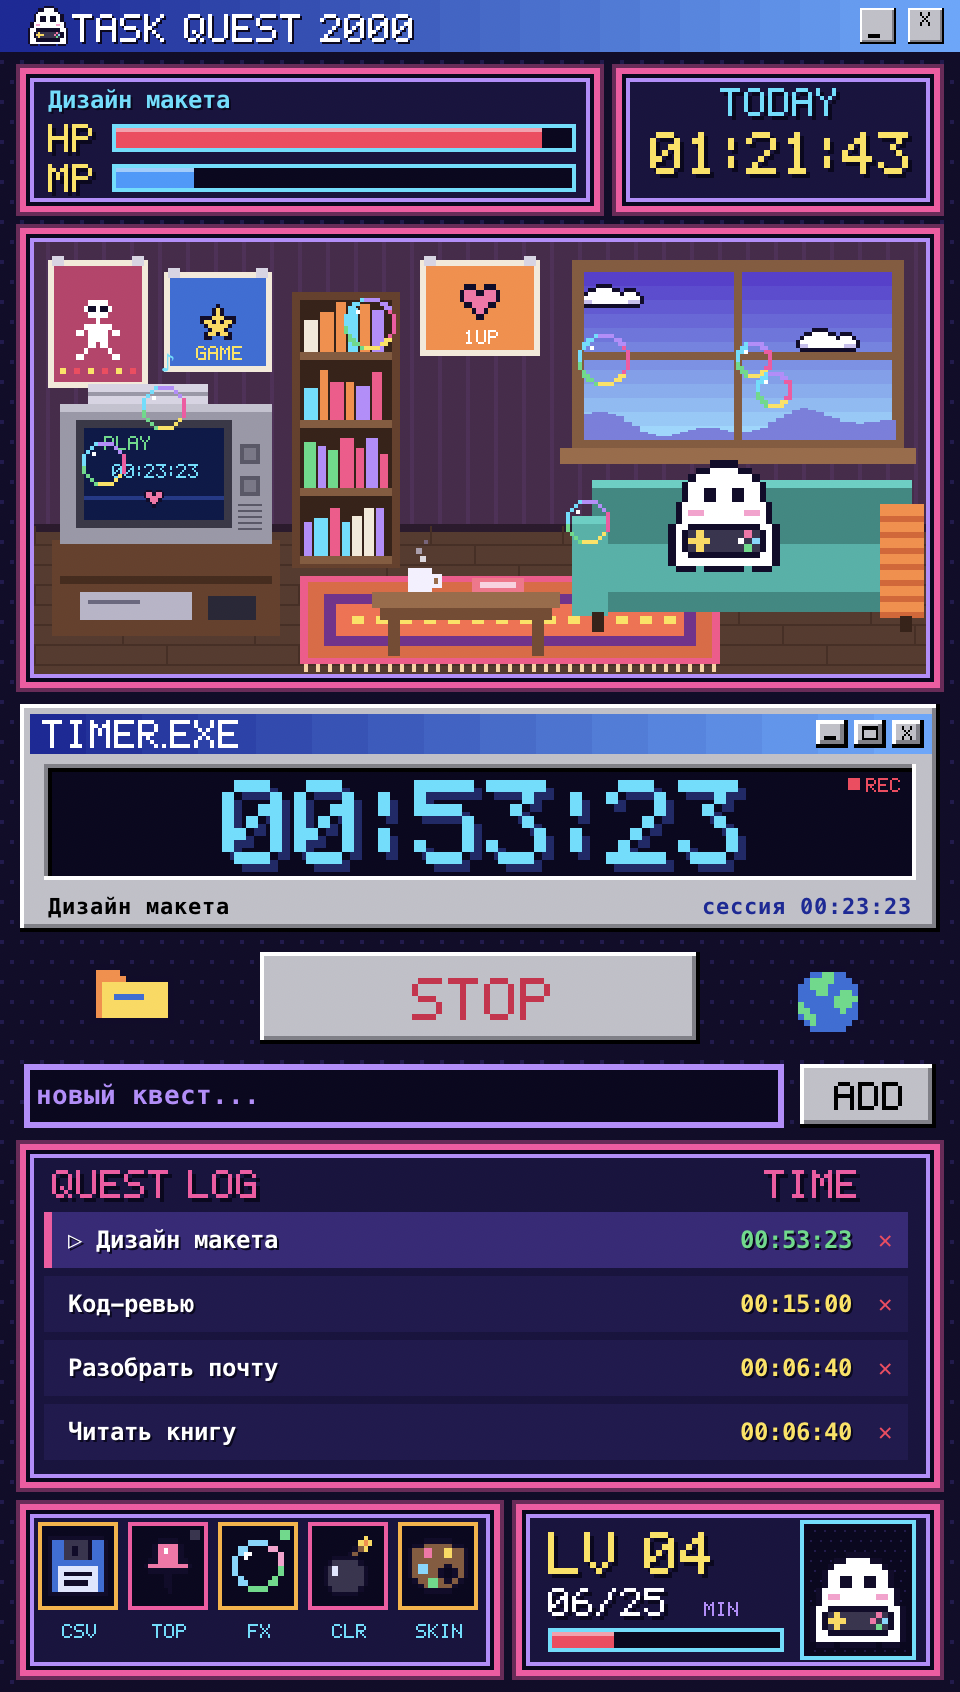
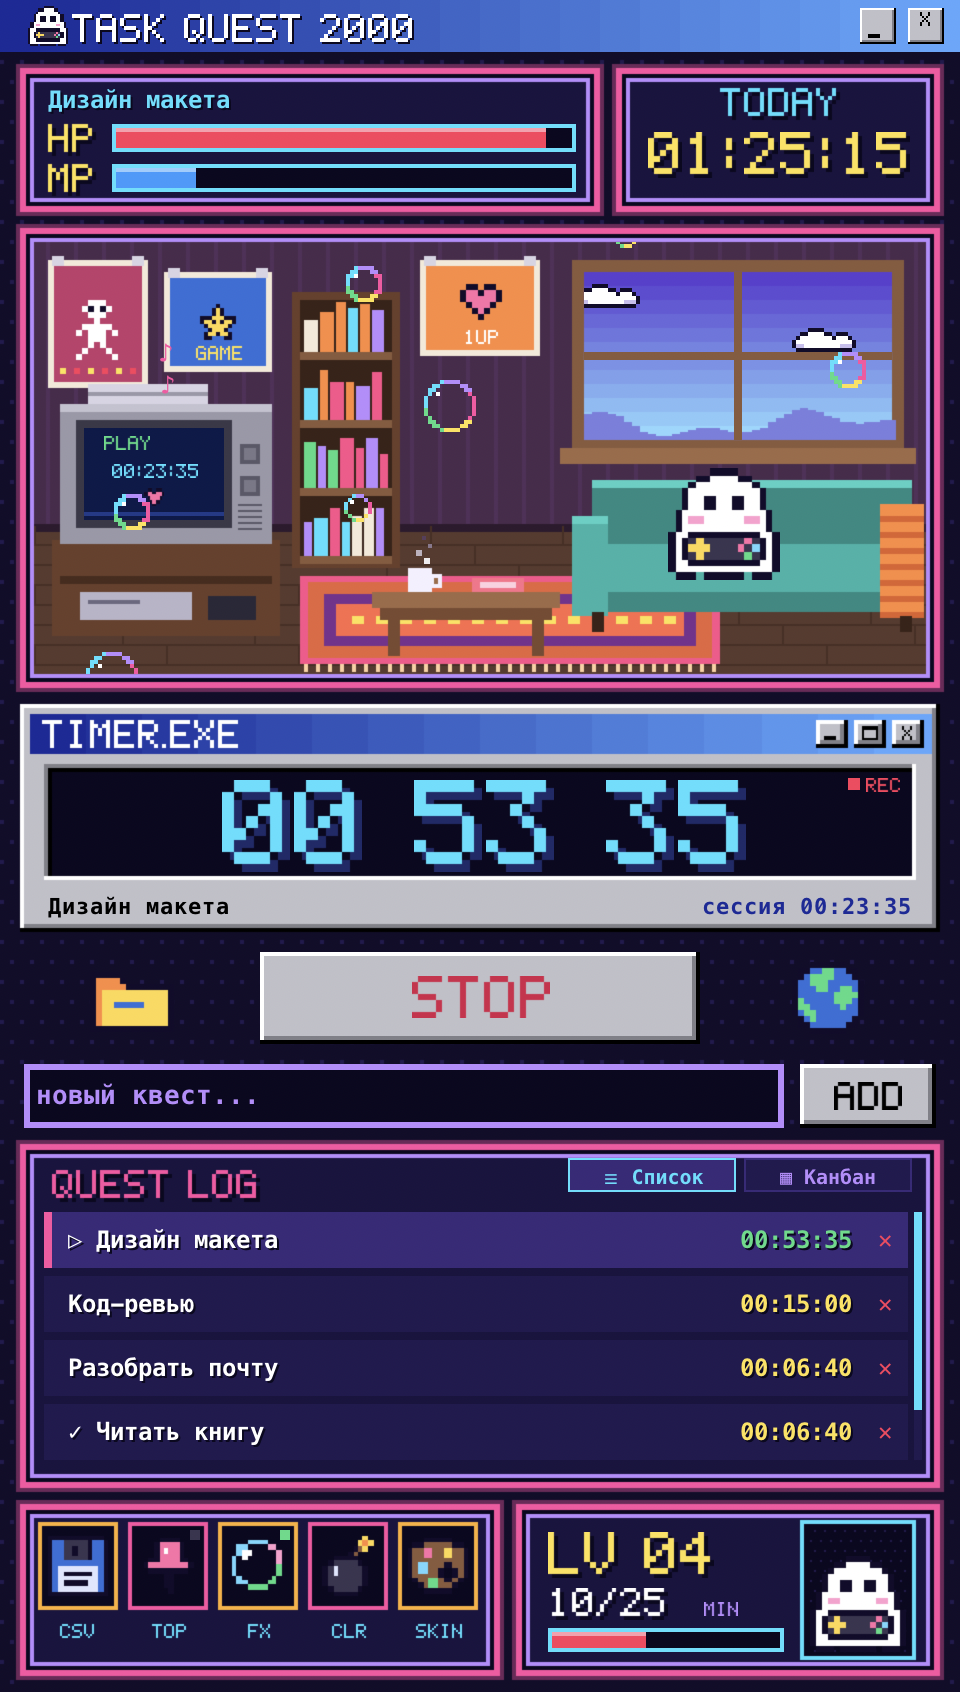
Скриншоты всех скинов обновлены (демо-данные): режимы «Список» и «Канбан»

diff --git a/README.md b/README.md
@@ -14,6 +14,14 @@
   <img src="docs/screenshot_md.png" width="200" alt="Скин MiniDisc">
 </p>
 
+<p align="center">
+  <img src="docs/screenshot_moon_kanban.png" width="200" alt="Moon: канбан">
+  <img src="docs/screenshot_2000_kanban.png" width="200" alt="2000: канбан">
+  <img src="docs/screenshot_terminal_kanban.png" width="200" alt="Terminal: канбан">
+  <img src="docs/screenshot_md_kanban.png" width="200" alt="MiniDisc: канбан">
+</p>
+<p align="center"><sub>Сверху — режим «Список», снизу — «Канбан» (демо-данные)</sub></p>
+
 ## Возможности
 
 - **Старт / стоп** одной кнопкой или **пробелом**
